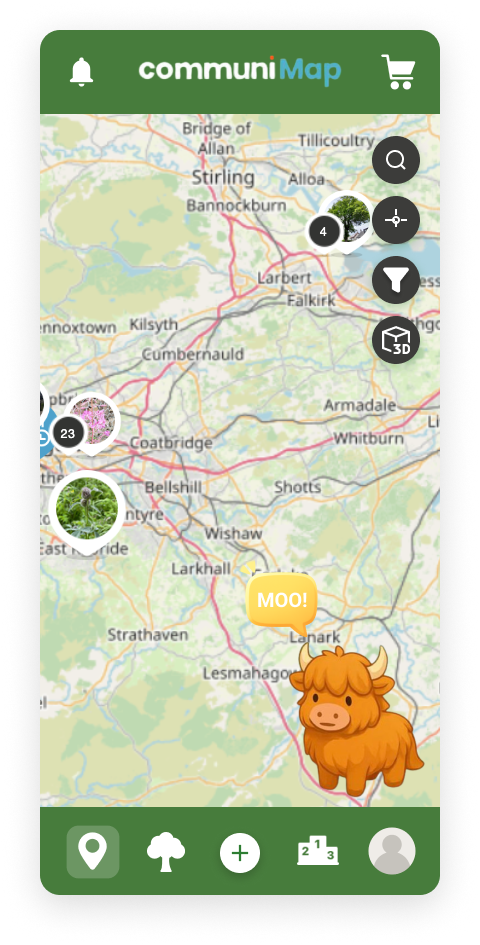
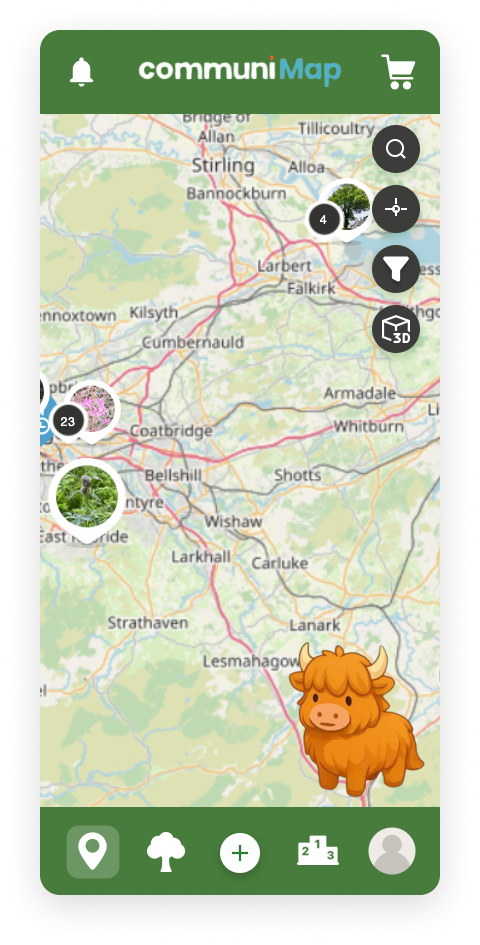
Edited Design Tab
Adjusted Final Prototype & Documentation

diff --git a/index.html b/index.html
@@ -228,7 +228,7 @@
                                             </div>
                                         </div>
                                         <div class="feature-image">
-                                            <img src="res/MAP.png" alt="Screenshot of Pet System" />
+                                            <img src="res/MAPmoo.png" alt="Screenshot of Pet System" />
                                         </div>
                                     </div>
                                 </div>
@@ -262,7 +262,7 @@
                                             </div>
                                         </div>
                                         <div class="feature-image">
-                                            <img src="res/currency.png" alt="Currency feature screen" />
+                                            <img src="res/TREASURE SHOP.png" alt="Currency feature screen" />
                                         </div>
                                     </div>
                                 </div>
@@ -322,7 +322,7 @@
                                             </div>
                                         </div>
                                         <div class="feature-image">
-                                            <img src="res/zoomed.png" alt="Hybrid map screen" />
+                                            <img src="res/3Dmoo.png" alt="Hybrid map screen" />
                                         </div>
                                     </div>
                                 </div>
@@ -355,7 +355,7 @@
                                             </div>
                                         </div>
                                         <div class="feature-image">
-                                            <img src="res/events.png" alt="Event system screen" />
+                                            <img src="res/START (EVENT POP UP).png" alt="Event system screen" />
                                         </div>
                                     </div>
                                 </div>
@@ -629,19 +629,60 @@
 
                     <!-- Prototype Demo -->
                     <div class="prototype-content" style="margin-top: 2rem;">
+
+                        <p style="margin-top:1rem;">
+                             After receiving feedback from our client, we refined the final UI to improve clarity, visual hierarchy, and overall user flow. We adapted the theme colour to match the Gallant colour palette, removed human avatars to focus solely on pets (which adapt based on the user’s country — e.g., Singapore features a lion, while Glasgow features a highland cow),     and introduced small pop-up alerts for active events happening nearby. These adjustments made the interface more engaging, locally relevant, and aligned with CommuniMap’s branding.
+                        </p>
                         <h3>See the Prototype</h3>
                         <p>Experience our interactive prototype and see how the solution comes together:</p>
                         <div class="prototype-buttons">
-                            <a href="https://www.figma.com/proto/TZEvvgYFLt5eKhNNyodAI6/OIP?node-id=179-27&p=f&t=uUFG5TOfVc9yUSbf-1&scaling=min-zoom&content-scaling=fixed&page-id=0%3A1&starting-point-node-id=179%3A221&show-proto-sidebar=1" class="btn btn-primary">View Figma Prototype</a>
-                            <a href="#" class="btn btn-secondary">Interactive Demo</a>
+                            <a href="https://www.figma.com/proto/TZEvvgYFLt5eKhNNyodAI6/OIP?node-id=179-27&p=f&t=uUFG5TOfVc9yUSbf-1&scaling=min-zoom&content-scaling=fixed&page-id=0%3A1&starting-point-node-id=179%3A221&show-proto-sidebar=1" class="btn btn-primary">Interactive Demo</a>
                         </div>
-                        <div class="prototype-placeholder">
-                            <div class="image-placeholder large">
-                                <!-- Space for embedded prototype or preview -->
-                                <span>Prototype Preview Placeholder</span>
+
+                        <div class="image5-grid">
+                            <div class="feature-image">
+                                <img src="res/START (EVENT POP UP).png" alt="Event pop-up start screen">
+                                <div class="image-caption">Event pop-up at launch to highlight limited-time challenges.</div>
+                            </div>
+                            <div class="feature-image">
+                                <img src="res/MAP.png" alt="2D map view">
+                                <div class="image-caption">Clean 2D map for route tracking and location discovery.</div>
+                            </div>
+                            <div class="feature-image">
+                                <img src="res/MAPmoo.png" alt="2D map with pet companion">
+                                <div class="image-caption">2D map with interactive pet.</div>
+                            </div>
+                            <div class="feature-image">
+                                <img src="res/3D.png" alt="3D map view">
+                                <div class="image-caption">Immersive 3D map for enhanced spatial navigation.</div>
+                            </div>
+                            <div class="feature-image">
+                                <img src="res/3Dmoo.png" alt="3D map with pet">
+                                <div class="image-caption">3D map view with pet integration for gamification.</div>
+                            </div>
+                            <div class="feature-image">
+                                <img src="res/EVENTS.png" alt="Events page">
+                                <div class="image-caption">Dedicated events page with seasonal challenges.</div>
+                            </div>
+                            <div class="feature-image">
+                                <img src="res/NEW SPOTS.png" alt="New spots page">
+                                <div class="image-caption">‘New Spots’ discovery page to encourage exploration.</div>
+                            </div>
+                            <div class="feature-image">
+                                <img src="res/Leaderboard.png" alt="Leaderboard">
+                                <div class="image-caption">Leaderboard with tiered rankings for competitive play.</div>
+                            </div>
+                            <div class="feature-image">
+                                <img src="res/PROFILE.png" alt="User profile">
+                                <div class="image-caption">User profile showcasing progress, badges, and streaks.</div>
+                            </div>
+                            <div class="feature-image">
+                                <img src="res/TREASURE SHOP.png" alt="Shop page">
+                                <div class="image-caption">Treasure Shop for redeeming coins for pet wearables and vouchers.</div>
                             </div>
                         </div>
                     </div>
+
 
                     <!-- Project Poster -->
                     <div class="poster-content" style="margin-top: 4rem;">

diff --git a/styles.css b/styles.css
@@ -1837,6 +1837,12 @@ img.team-photo {
   gap: 16px;
 }
 
+.image5-grid {
+  display: grid;
+  grid-template-columns: repeat(5, 1fr); /* 5 equal-width columns */
+  gap: 16px; /* Space between items */
+}
+
 .image-placeholder {
   background-color: #eef2f3;
   border-radius: 12px;
